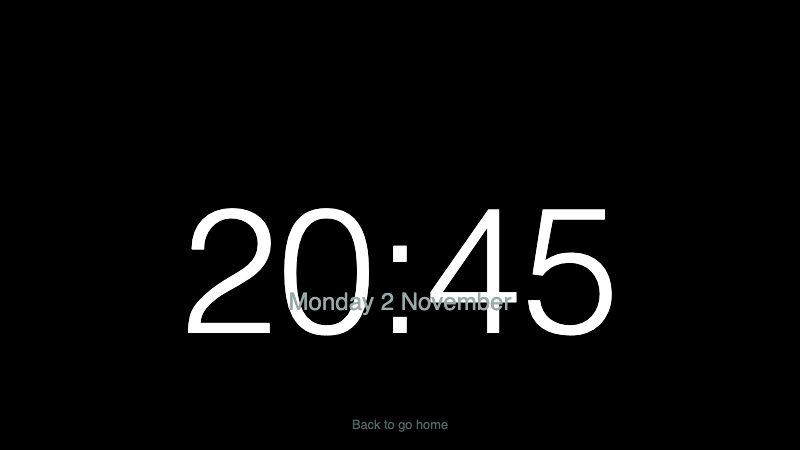
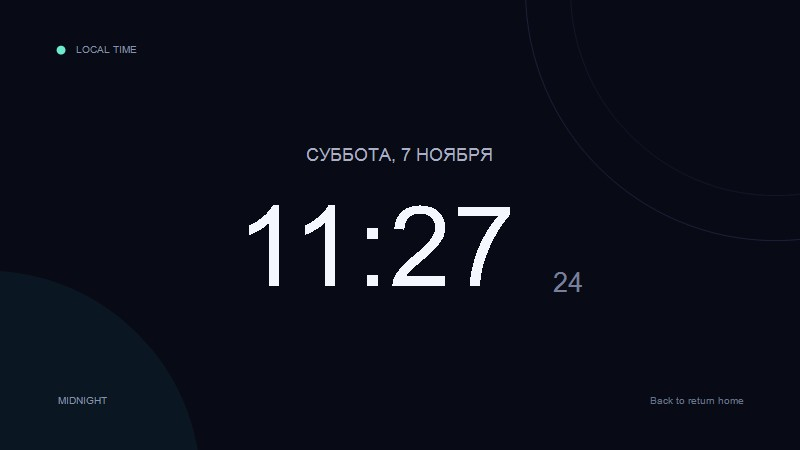
Refresh the catalog clock add-on

diff --git a/addons/catalog/bigclock/index.html b/addons/catalog/bigclock/index.html
@@ -2,27 +2,74 @@
 <html>
 <head>
 <meta charset="utf-8">
-<title>Big clock</title>
+<meta name="viewport" content="width=device-width, initial-scale=1">
+<title>Midnight Clock</title>
 <style>
-  html, body { margin: 0; height: 100%; background: #000; color: #fff; font-family: sans-serif; overflow: hidden; }
-  #t { position: absolute; left: 0; right: 0; top: 38%; text-align: center; font-size: 22vw; font-weight: 300; }
-  #d { position: absolute; left: 0; right: 0; top: 64%; text-align: center; font-size: 3vw; color: #9aa; }
-  #h { position: absolute; left: 0; right: 0; bottom: 4%; text-align: center; font-size: 1.6vw; color: #566; }
+  * { box-sizing: border-box; }
+  html, body { width: 100%; height: 100%; margin: 0; overflow: hidden; }
+  body {
+    position: relative;
+    background: #080b16;
+    color: #f5f7ff;
+    font-family: "Arial", "Helvetica Neue", sans-serif;
+  }
+  body:before, body:after { content: ""; position: absolute; border-radius: 50%; pointer-events: none; }
+  body:before {
+    width: 78vw; height: 78vw; right: -31vw; top: -45vw;
+    border: 1px solid rgba(139, 125, 255, .15);
+    box-shadow: 0 0 0 5vw rgba(139, 125, 255, .025), 0 0 0 12vw rgba(139, 125, 255, .018);
+  }
+  body:after {
+    width: 60vw; height: 60vw; left: -38vw; bottom: -43vw;
+    background: radial-gradient(circle, rgba(42, 193, 213, .13) 0, rgba(42, 193, 213, 0) 68%);
+  }
+  .layout { position: relative; z-index: 1; width: 100%; height: 100%; padding: 5.5vh 7vw; }
+  .topline { color: #8992ad; font-size: 1.05vw; letter-spacing: .34em; text-transform: uppercase; }
+  .topline .dot { display: inline-block; width: .55vw; height: .55vw; margin: 0 1vw .1vw 0; border-radius: 50%; background: #6eebcf; box-shadow: 0 0 1.2vw rgba(110, 235, 207, .65); }
+  .center { position: absolute; left: 4vw; right: 4vw; top: 50%; text-align: center; transform: translateY(-53%); }
+  .date { color: #a8afc7; font-size: 2vw; font-weight: 400; letter-spacing: .13em; text-transform: uppercase; }
+  .clock { margin-top: 2vh; white-space: nowrap; font-size: 23vw; line-height: .98; font-weight: 200; letter-spacing: -.075em; font-variant-numeric: tabular-nums; }
+  .digits { display: inline-block; text-shadow: 0 0 5vw rgba(132, 140, 255, .12); }
+  .colon { display: inline-block; padding: 0 .035em; color: #8e8aff; text-shadow: 0 0 3vw rgba(142, 138, 255, .5); }
+  .seconds { display: inline-block; margin-left: 1.4vw; color: #777f9c; font-size: 5.2vw; font-weight: 300; letter-spacing: .02em; vertical-align: 17%; }
+  .bottom { position: absolute; left: 7vw; right: 7vw; bottom: 5vh; display: table; width: 86vw; color: #69728c; font-size: 1.15vw; letter-spacing: .16em; text-transform: uppercase; }
+  .bottom span { display: table-cell; }
+  .bottom .hint { text-align: right; letter-spacing: .08em; text-transform: none; }
+  @media (orientation: portrait) {
+    .layout { padding-top: 4vh; }
+    .topline { font-size: 2.4vw; }
+    .center { left: 3vw; right: 3vw; }
+    .date { font-size: 4vw; }
+    .clock { font-size: 24vw; }
+    .seconds { font-size: 7vw; }
+    .bottom { font-size: 2.5vw; }
+  }
 </style>
 </head>
 <body>
-<div id="t"></div><div id="d"></div><div id="h">Back to go home</div>
+<div class="layout">
+  <div class="topline"><span class="dot"></span>Local time</div>
+  <div class="center">
+    <div class="date" id="date"></div>
+    <div class="clock"><span class="digits" id="hours"></span><span class="colon">:</span><span class="digits" id="minutes"></span><span class="seconds" id="seconds"></span></div>
+  </div>
+  <div class="bottom"><span>Midnight</span><span class="hint">Back to return home</span></div>
+</div>
 <script src="/addon/sdk.js"></script>
 <script>
-  /* ES5 only: this page runs on Chromium 68 (webOS 5) too */
+  /* ES5 only: this page runs on Chromium 68 (webOS 5) too. */
   function two(n) { return (n < 10 ? '0' : '') + n; }
   function tick() {
-    var n = new Date();
-    document.getElementById('t').textContent = two(n.getHours()) + ':' + two(n.getMinutes());
-    document.getElementById('d').textContent = n.toLocaleDateString(undefined, { weekday: 'long', day: 'numeric', month: 'long' });
+    var now = new Date();
+    var dateText = now.toLocaleDateString(undefined, { weekday: 'long', day: 'numeric', month: 'long' });
+    document.getElementById('hours').textContent = two(now.getHours());
+    document.getElementById('minutes').textContent = two(now.getMinutes());
+    document.getElementById('seconds').textContent = two(now.getSeconds());
+    document.getElementById('date').textContent = dateText;
   }
   tick();
-  setInterval(tick, 5000);
+  setInterval(tick, 1000);
 </script>
 </body>
 </html>
+
